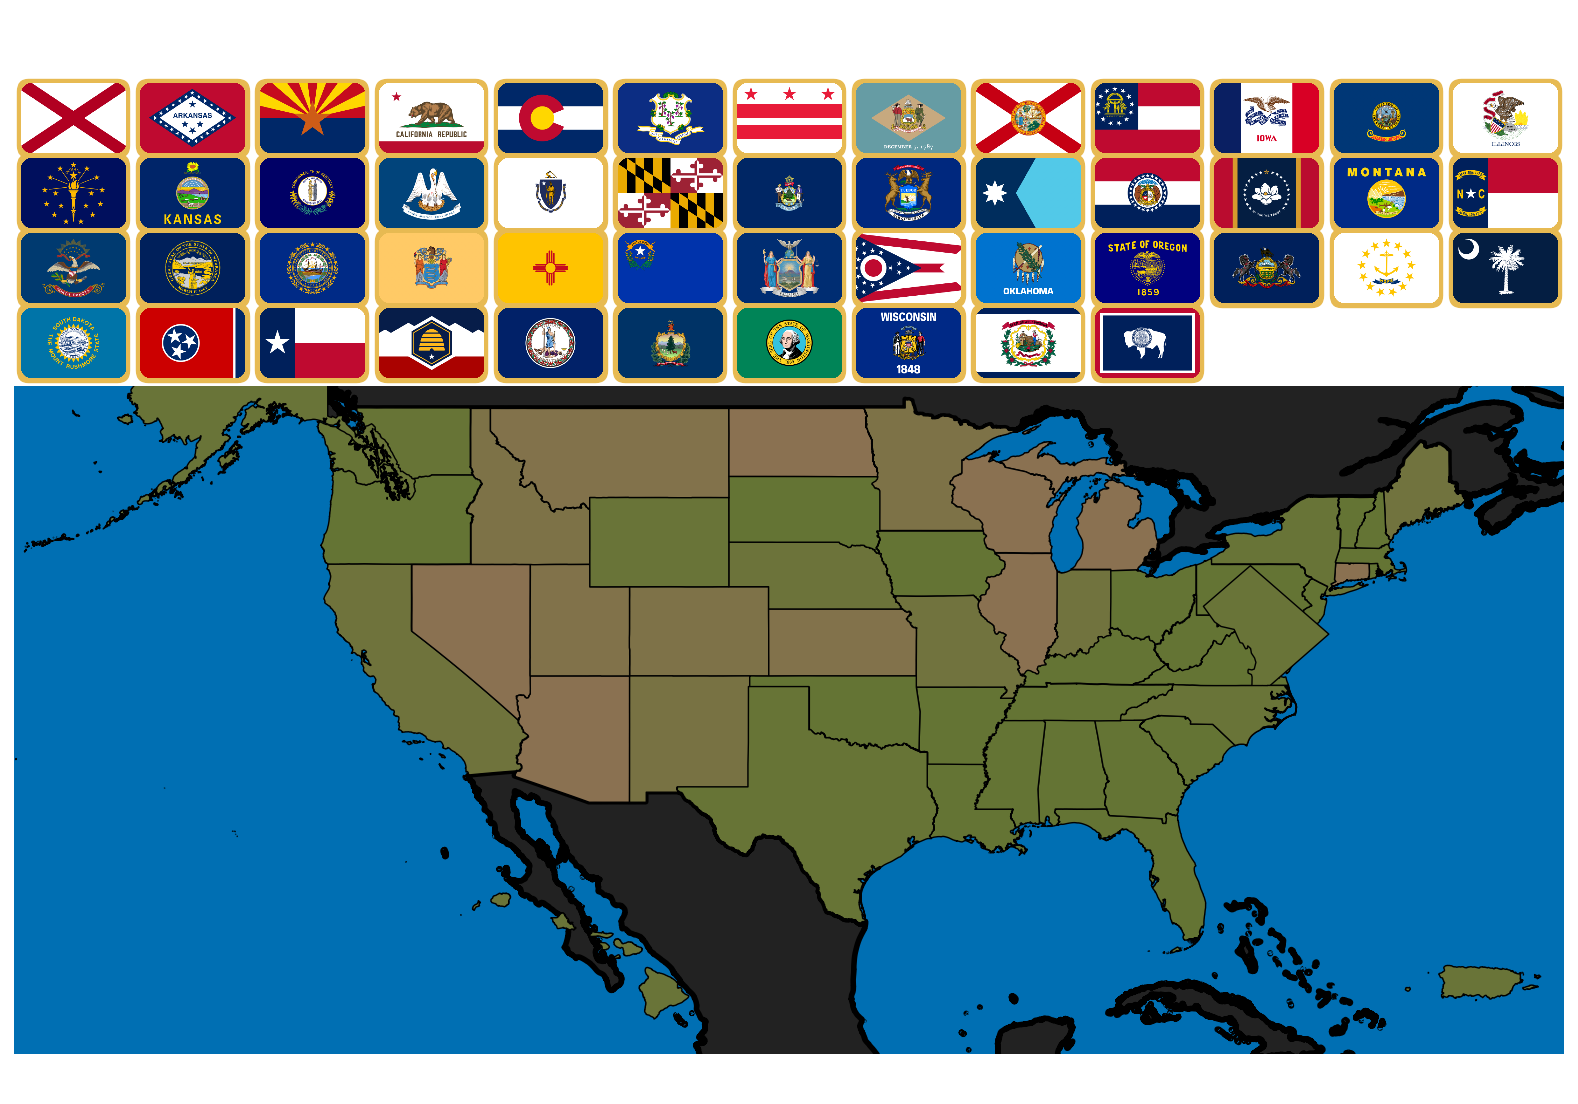
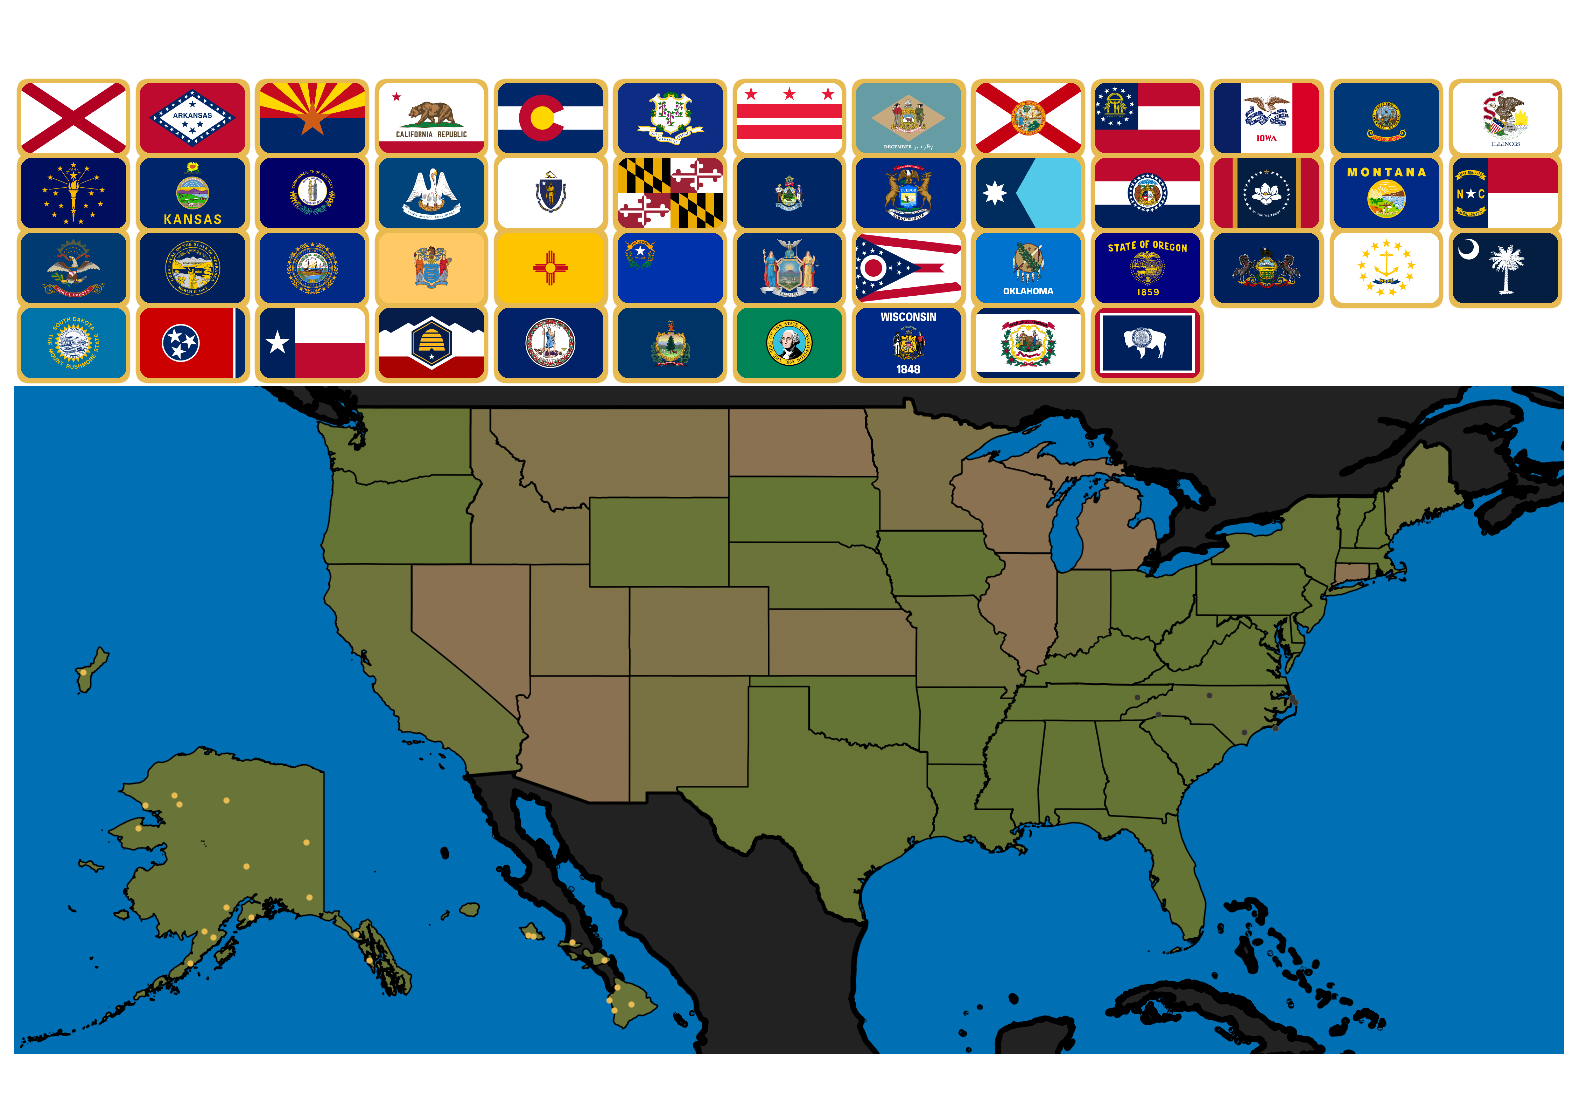
place maps

diff --git a/plotting/plotting_manager.py b/plotting/plotting_manager.py
@@ -153,7 +153,7 @@ class PlotManager:
                         
             # Scale and Shift Map
             bomap_gdf["geometry"] = bomap_gdf["geometry"].apply(
-                lambda geom: affinity.scale(geom, xfact=scale[0], yfact=scale[1], origin="center"),
+                lambda geom: affinity.scale(geom, xfact=scale[0], yfact=scale[1], origin=(0, 0)),
             )
             bomap_gdf["geometry"] = bomap_gdf["geometry"].apply(
                 lambda geom: affinity.translate(geom, xoff=xoff, yoff=yoff)
@@ -164,14 +164,16 @@ class PlotManager:
             #bomap_points["geometry"] = bomap_points["geometry"].apply(
             #    lambda geom: affinity.scale(geom, xfact=scale[0], yfact=scale[1], origin="center")
             #)
-            bomap_points["geometry"] = bomap_points["geometry"].apply(
-                lambda geom: affinity.translate(geom, xoff=xoff, yoff=yoff)
-            )
+            #bomap_points["geometry"] = bomap_points["geometry"].apply(
+            #    lambda geom: affinity.translate(geom, xoff=xoff, yoff=yoff)
+            #)
             bomap_points["geometry"] = bomap_points["geometry"].apply(
                 lambda geom: affinity.translate(
                     geom,
-                    xoff=xoff/180 + ((scale[0]) * (geom.x)),# + xoff,
-                    yoff=yoff/180 + ((scale[1]) * (geom.y)),# + yoff
+                    #xoff=((scale[0]-1) * (geom.x)),
+                    #yoff=((scale[1]-1) * (geom.y))        
+                    xoff=xoff + ((scale[0]-1) * (geom.x)),
+                    yoff=yoff + ((scale[1]-1) * (geom.y)),
             ))
 
             #a = scale[0]
@@ -190,11 +192,10 @@ class PlotManager:
 
             bomap_gdf.plot(ax=ax, edgecolor="black", linewidth=1/self.scale, color=color, alpha=1)
 
-            print(len(bomap_points))
+            if map_i == "GU":
+                print(bomap_points["geometry"])
 
-            #if map_i == "DC":  
-
-            #    self._plot_points(ax, current_date, points=bomap_points)
+            self._plot_points(ax, current_date, points=bomap_points)
 
     def _plot_points(self, ax, current_date, points, type="normal"):
         scale_factor = self.marker_size
